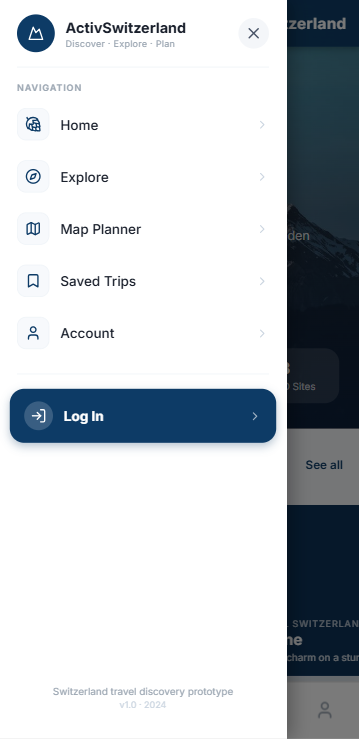
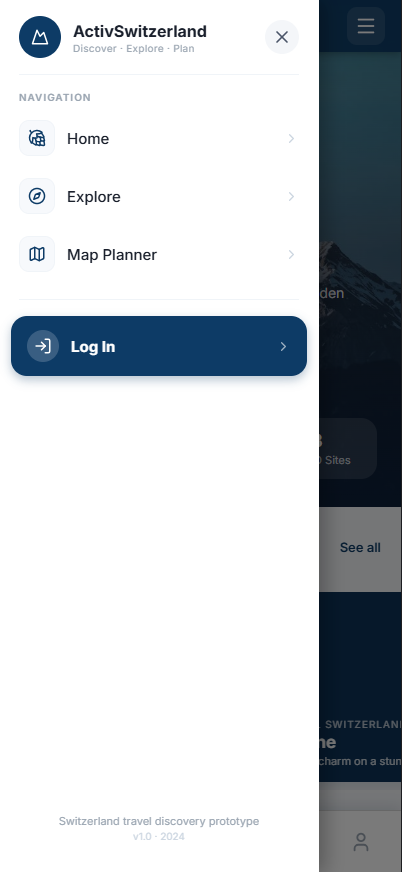
feat: navigation side menu
Wires the hamburger toggle to DrawerService and builds the menu-nav
drawer panel to match the design reference — NAVIGATION items (Home,
Explore, Map Planner), Log In button, brand header, and footer.
DrawerHost mounted in MainLayout to manage all drawer overlays.

diff --git a/frontend/src/app/shell/menu-nav/menu-nav.css b/frontend/src/app/shell/menu-nav/menu-nav.css
@@ -1,0 +1,98 @@
+:host {
+    display: block;
+}
+
+.nav-section {
+    margin-bottom: 1.5rem;
+}
+
+.nav-label {
+    display: block;
+    font-size: 0.7rem;
+    font-weight: 600;
+    color: #9ca3af;
+    letter-spacing: 0.1em;
+    text-transform: uppercase;
+    margin-bottom: 0.5rem;
+    padding: 0 0.25rem;
+}
+
+.nav-list {
+    list-style: none;
+    margin: 0;
+    padding: 0;
+}
+
+.nav-item {
+    display: flex;
+    align-items: center;
+    gap: 0.75rem;
+    padding: 0.85rem 0.25rem;
+    border-bottom: 1px solid #f3f4f6;
+    cursor: pointer;
+    border-radius: 8px;
+}
+
+.nav-item:last-child {
+    border-bottom: none;
+}
+
+.nav-item:hover {
+    background: #dbeafe;
+}
+
+.nav-icon-box {
+    width: 36px;
+    height: 36px;
+    border-radius: 8px;
+    display: flex;
+    align-items: center;
+    justify-content: center;
+    color: #374151;
+    font-size: 1rem;
+    flex-shrink: 0;
+}
+
+.nav-item-label {
+    flex: 1;
+    font-size: 0.95rem;
+    font-weight: 500;
+    color: #1f2937;
+}
+
+.nav-chevron {
+    color: #9ca3af;
+    font-size: 0.75rem;
+}
+
+.nav-actions {
+    padding-top: 0.25rem;
+}
+
+.login-btn {
+    display: flex;
+    align-items: center;
+    gap: 0.75rem;
+    width: 100%;
+    padding: 1rem 1.25rem;
+    background: #1a2f4a;
+    color: #ffffff;
+    border: none;
+    border-radius: 12px;
+    cursor: pointer;
+    font-size: 0.95rem;
+    font-weight: 600;
+}
+
+.login-btn:hover {
+    background: #243f61;
+}
+
+.login-btn span {
+    flex: 1;
+    text-align: left;
+}
+
+.login-btn .pi-chevron-right {
+    font-size: 0.8rem;
+}

diff --git a/frontend/src/app/shared/drawer-host/drawer-host.css b/frontend/src/app/shared/drawer-host/drawer-host.css
@@ -1,0 +1,71 @@
+.menu-header {
+    display: flex;
+    align-items: center;
+    justify-content: space-between;
+    width: 100%;
+}
+
+.menu-brand {
+    display: flex;
+    align-items: center;
+    gap: 0.75rem;
+}
+
+.menu-avatar {
+    width: 44px;
+    height: 44px;
+    border-radius: 50%;
+    background: #1a3a5c;
+    display: flex;
+    align-items: center;
+    justify-content: center;
+    color: #ffffff;
+    font-size: 1.25rem;
+    flex-shrink: 0;
+}
+
+.menu-brand-text {
+    display: flex;
+    flex-direction: column;
+}
+
+.menu-brand-name {
+    font-size: 1rem;
+    font-weight: 700;
+    color: #1a2f4a;
+    line-height: 1.2;
+}
+
+.menu-brand-tagline {
+    font-size: 0.75rem;
+    color: #6b7280;
+}
+
+.menu-close {
+    background: none;
+    border: none;
+    cursor: pointer;
+    color: #6b7280;
+    font-size: 1.1rem;
+    padding: 0.35rem;
+    display: flex;
+    align-items: center;
+    justify-content: center;
+    border-radius: 50%;
+}
+
+.menu-close:hover {
+    color: #1a2f4a;
+    background: #f3f4f6;
+}
+
+.menu-footer {
+    text-align: center;
+    color: #9ca3af;
+    font-size: 0.7rem;
+    line-height: 1.6;
+}
+
+.menu-footer p {
+    margin: 0;
+}

diff --git a/frontend/src/app/shared/drawer-host/drawer-host.html b/frontend/src/app/shared/drawer-host/drawer-host.html
@@ -1,16 +1,33 @@
-<!-- LANGUAGES -->
-<p-drawer [visible]="svc.isOpen('menu-nav')" [closable]="false" (visibleChange)="onVisibleChange('menu-nav', $event)"
-    position="left" appendTo="body" [baseZIndex]="svc.zIndexFor('menu-nav')">
+<!-- MENU NAV -->
+<p-drawer
+    [visible]="svc.isOpen('menu-nav')"
+    [closable]="false"
+    (visibleChange)="onVisibleChange('menu-nav', $event)"
+    position="left"
+    appendTo="body"
+    [baseZIndex]="svc.zIndexFor('menu-nav')"
+    [style]="{ width: '300px' }">
     <ng-template #header>
-        <div class="drawer-icon">
-            <button type="button" (click)="onDrawerClose('menu-nav')">
-                <i class="fa-light fa-circle-chevron-left"></i>
+        <div class="menu-header">
+            <div class="menu-brand">
+                <div class="menu-avatar">
+                    <i class="pi pi-map-marker"></i>
+                </div>
+                <div class="menu-brand-text">
+                    <span class="menu-brand-name">ActivSwitzerland</span>
+                    <span class="menu-brand-tagline">Discover · Explore · Plan</span>
+                </div>
+            </div>
+            <button class="menu-close" type="button" (click)="onDrawerClose('menu-nav')">
+                <i class="pi pi-times"></i>
             </button>
-            Language
         </div>
     </ng-template>
-    <div>
-        <app-menu-nav></app-menu-nav>
-    </div>
-    <ng-template #footer></ng-template>
+    <app-menu-nav></app-menu-nav>
+    <ng-template #footer>
+        <div class="menu-footer">
+            <p>Switzerland travel discovery prototype</p>
+            <p>v1.0 · 2024</p>
+        </div>
+    </ng-template>
 </p-drawer>

diff --git a/frontend/src/app/shell/menu-nav/menu-nav.html b/frontend/src/app/shell/menu-nav/menu-nav.html
@@ -1,1 +1,28 @@
-<p>menu-nav works!</p>
+<section class="nav-section">
+    <span class="nav-label">NAVIGATION</span>
+    <ul class="nav-list">
+        <li class="nav-item">
+            <div class="nav-icon-box"><i class="pi pi-home"></i></div>
+            <span class="nav-item-label">Home</span>
+            <i class="pi pi-chevron-right nav-chevron"></i>
+        </li>
+        <li class="nav-item">
+            <div class="nav-icon-box"><i class="pi pi-compass"></i></div>
+            <span class="nav-item-label">Explore</span>
+            <i class="pi pi-chevron-right nav-chevron"></i>
+        </li>
+        <li class="nav-item">
+            <div class="nav-icon-box"><i class="pi pi-map"></i></div>
+            <span class="nav-item-label">Map Planner</span>
+            <i class="pi pi-chevron-right nav-chevron"></i>
+        </li>
+    </ul>
+</section>
+
+<div class="nav-actions">
+    <button class="login-btn" type="button">
+        <i class="pi pi-sign-in"></i>
+        <span>Log In</span>
+        <i class="pi pi-chevron-right"></i>
+    </button>
+</div>

diff --git a/frontend/src/app/shell/header-nav/header-nav.css b/frontend/src/app/shell/header-nav/header-nav.css
@@ -6,7 +6,7 @@
   background: #1a2f4a;
   border: none;
   border-radius: 0;
-  padding: 0.75rem 1.25rem;
+  padding: 0.50rem 1rem;
   display: flex;
   align-items: center;
   justify-content: space-between;
@@ -24,8 +24,20 @@
   color: #ffffff;
 }
 
+:host ::ng-deep .toggle-btn .p-button {
+  background: #285278 !important;
+  border-radius: 8px;
+  box-shadow: none;
+}
+
+:host ::ng-deep .toggle-btn .p-button:focus,
+:host ::ng-deep .toggle-btn .p-button:focus-visible,
+:host ::ng-deep .toggle-btn .p-button:hover {
+  background: #dbeafe !important;
+}
+
 .brand {
-  font-size: 1.125rem;
+  font-size: 1.4rem;
   font-weight: 600;
   color: #ffffff;
   letter-spacing: 0.01em;

diff --git a/frontend/src/app/shell/header-nav/header-nav.ts b/frontend/src/app/shell/header-nav/header-nav.ts
@@ -1,6 +1,7 @@
-import { Component } from '@angular/core';
+import { Component, inject } from '@angular/core';
 import { Menubar } from 'primeng/menubar';
 import { Button } from 'primeng/button';
+import { Drawer } from '../../shared/services/drawer';
 
 @Component({
   selector: 'app-header-nav',
@@ -8,4 +9,10 @@ import { Button } from 'primeng/button';
   templateUrl: './header-nav.html',
   styleUrl: './header-nav.css',
 })
-export class HeaderNav {}
+export class HeaderNav {
+  private drawer = inject(Drawer);
+
+  toggleMenu() {
+    this.drawer.toggle('menu-nav');
+  }
+}

diff --git a/frontend/src/app/shell/main-layout/main-layout.ts b/frontend/src/app/shell/main-layout/main-layout.ts
@@ -1,11 +1,12 @@
 import { Component } from '@angular/core';
 import { RouterOutlet } from '@angular/router';
 import { HeaderNav } from '../header-nav/header-nav';
+import { DrawerHost } from '../../shared/drawer-host/drawer-host';
 
 @Component({
   selector: 'app-main-layout',
   standalone: true,
-  imports: [RouterOutlet, HeaderNav],
+  imports: [RouterOutlet, HeaderNav, DrawerHost],
   templateUrl: './main-layout.html',
   styleUrl: './main-layout.css',
 })

diff --git a/frontend/src/app/shell/header-nav/header-nav.html b/frontend/src/app/shell/header-nav/header-nav.html
@@ -7,10 +7,10 @@
     <p-button
       icon="pi pi-bars"
       [text]="true"
-      [rounded]="true"
       severity="contrast"
       aria-label="Toggle menu"
       class="toggle-btn"
+      (onClick)="toggleMenu()"
     />
   </ng-template>
 </p-menubar>

diff --git a/frontend/src/app/shell/main-layout/main-layout.html b/frontend/src/app/shell/main-layout/main-layout.html
@@ -1,2 +1,3 @@
 <app-header-nav></app-header-nav>
 <router-outlet></router-outlet>
+<app-drawer-host></app-drawer-host>

diff --git a/context/features/nav-menu-spec.md b/context/features/nav-menu-spec.md
@@ -1,0 +1,18 @@
+# Navigation side menu 
+
+## Overview
+
+Navigation side menu UI layout. Use the screenshot referenced below for how it should look.
+
+## Requirements
+
+- Wire-up top menu toggle button to display the side menu drawer
+- All site dawers are controlled via a single component called @/frontend/src/app/shared/drawer-host an service
+called @/frontend/src/app/shared/services/drawer.ts
+- Use the Toggle_menu.png as reference to what the side menu should look like. 
+
+
+## References
+
+- @context/screenshots/Toggle_menu.png
+- @context/project-overview.md

diff --git a/context/current-feature.md b/context/current-feature.md
@@ -28,6 +28,15 @@ None
 - Feature scoped: PrimeNG Menubar with custom template, brand left / hamburger right
 - Side drawer activation deferred to Phase 2
 
+### 2026-04-23 — Navigation Side Menu Started
+- Feature scoped: wire up hamburger toggle to drawer-host/DrawerService, build side menu to match Toggle_menu.png
+
+### 2026-04-23 — Navigation Side Menu Completed
+- Hamburger button in header-nav wired to `DrawerService.toggle('menu-nav')`
+- `DrawerHost` added to `main-layout`, manages all drawer overlays
+- `menu-nav` built with NAVIGATION section (Home, Explore, Map Planner) and Log In button
+- Visual styling matches `Toggle_menu.png` reference; icon borders removed, hover color `#dbeafe`
+
 ### 2026-04-23 — Top Navigation Menu Phase 1 Completed
 - PrimeNG Menubar added to `frontend/src/app/shell/header-nav`
 - Custom template with brand name 'ActivSwitzerland' on the left and hamburger toggle on the right